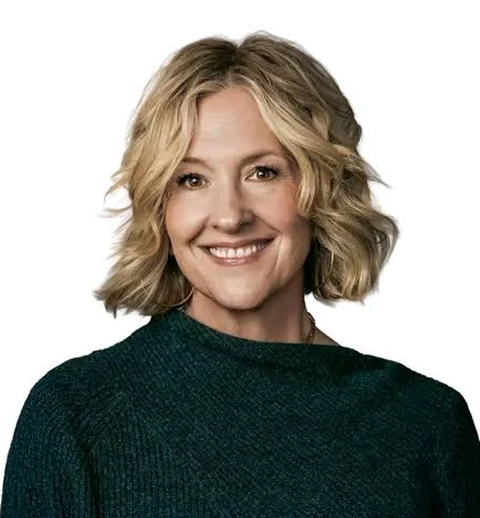
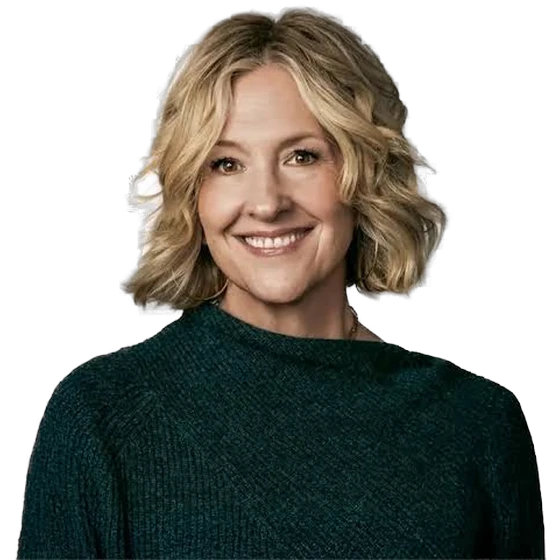
Experts section: cut-out portraits on colour cards with white name panels, no outlines
Claude-Session: https://claude.ai/code/session_0149TwyA4Dt6hXWvFzhGiDPi

diff --git a/landing-page/css/experts.css b/landing-page/css/experts.css
@@ -1,32 +1,33 @@
-/* Experts section: five flat colour cards, staggered, photo on top, dark pill tag, name and role.
-   Photos go in img/experts/<slug>.webp; until then the card shows a monogram. */
-.ex-sec { padding: 120px 0 50px; }
+/* Experts section: bento layout. One tall feature card plus four cards; flat colours, no outlines.
+   Each card: cut-out portrait standing on a white name panel, small dark pill tag top-left. */
+.ex-sec { padding: 120px 0 60px; }
 .ex-sec .hx-head { margin-bottom: 0; }
 .ex-note { max-width: 60ch; margin: 22px auto 0; text-align: center; font: 500 16px/1.55 "DM Sans", sans-serif; color: #4a2d20; }
-.ex-grid { display: grid; grid-template-columns: repeat(5, minmax(0, 1fr)); gap: 16px; align-items: start; margin: 64px 0 0; padding: 0; list-style: none; }
-.ex-card { position: relative; display: flex; flex-direction: column; padding: 12px 12px 24px; border-radius: 34px; background: #f9d98a; color: #3b2218; transition: transform .5s cubic-bezier(.2,.8,.2,1); }
-.ex-card:nth-child(even) { margin-top: 44px; }
-.ex-card:hover { transform: translateY(-8px) rotate(-.6deg); }
-.ex-card.c1 { background: #f9d98a; } .ex-card.c2 { background: #f58fab; } .ex-card.c3 { background: #f8c7a3; } .ex-card.c4 { background: #f4b8c4; } .ex-card.c5 { background: #fff3e2; box-shadow: inset 0 0 0 2px #3b2218; }
-.ex-ph { position: relative; aspect-ratio: 1 / 1.08; border-radius: 24px; overflow: hidden; display: grid; place-items: center; background: rgba(255,255,255,.34); }
-.ex-card.c5 .ex-ph { background: #f9d98a; }
-.ex-mono { font: 600 clamp(54px, 6vw, 92px)/1 Fraunces, Georgia, serif; color: #3b2218; opacity: .5; letter-spacing: -.03em; user-select: none; }
-.ex-ph img { position: absolute; inset: 0; width: 100%; height: 100%; object-fit: cover; object-position: center 22%; }
-.ex-tag { align-self: flex-start; margin: 18px 0 0 10px; padding: 6px 12px; border-radius: 99px; background: #3b2218; color: #fff3e2; font: 800 11px/1 "DM Sans", sans-serif; letter-spacing: .12em; text-transform: uppercase; }
-.ex-card b { display: block; margin: 14px 12px 0; font: 600 clamp(22px, 1.9vw, 27px)/1.08 Fraunces, Georgia, serif; letter-spacing: -.02em; }
-.ex-card p { margin: 8px 12px 0; font: 500 14.5px/1.45 "DM Sans", sans-serif; color: #3b2218; }
+.ex-grid { display: grid; grid-template-columns: 1.1fr 1fr 1fr; grid-template-rows: repeat(2, minmax(330px, 1fr)); gap: 18px; margin: 64px 0 0; padding: 0; list-style: none; }
+.ex-card { position: relative; display: flex; flex-direction: column; padding: 12px; border-radius: 38px; background: #f9d98a; color: #3b2218; overflow: hidden; min-width: 0; }
+.ex-card.c1 { grid-row: 1 / span 2; background: #f9d98a; }
+.ex-card.c2 { background: #f58fab; } .ex-card.c3 { background: #f8c7a3; } .ex-card.c4 { background: #f4b8c4; } .ex-card.c5 { background: #f9d98a; }
+.ex-tag { position: absolute; top: 24px; left: 24px; z-index: 2; padding: 6px 12px; border-radius: 99px; background: #3b2218; color: #fff3e2; font: 800 11px/1 "DM Sans", sans-serif; letter-spacing: .12em; text-transform: uppercase; }
+.ex-ph { position: relative; flex: 1; min-height: 0; }
+.ex-ph img { position: absolute; bottom: 0; left: 50%; transform: translateX(-50%) scale(1); transform-origin: bottom center; height: calc(100% - 40px); width: auto; max-width: 100%; object-fit: contain; object-position: bottom center; transition: transform .6s cubic-bezier(.2,.8,.2,1); }
+.ex-card:hover .ex-ph img { transform: translateX(-50%) scale(1.04); }
+.ex-id { position: relative; z-index: 1; padding: 16px 20px 18px; border-radius: 28px; background: #fff; text-align: center; }
+.ex-id b { display: block; font: 600 clamp(22px, 1.9vw, 28px)/1.1 Fraunces, Georgia, serif; letter-spacing: -.02em; }
+.ex-id p { margin: 6px 0 0; font: 500 14.5px/1.4 "DM Sans", sans-serif; color: #4a2d20; }
+.ex-card.c1 .ex-id { padding: 22px 24px 24px; }
+.ex-card.c1 .ex-id b { font-size: clamp(30px, 2.8vw, 42px); }
+.ex-card.c1 .ex-id p { font-size: 16px; margin-top: 8px; }
+
 @media (max-width: 1100px) {
-  .ex-grid { grid-template-columns: repeat(3, minmax(0, 1fr)); }
-  .ex-card:nth-child(even) { margin-top: 0; } .ex-card:nth-child(2) { margin-top: 36px; }
+  .ex-grid { grid-template-columns: 1fr 1fr; grid-template-rows: none; grid-auto-rows: auto; }
+  .ex-card { height: 370px; }
+  .ex-card.c1 { grid-row: auto; grid-column: 1 / -1; height: 470px; }
 }
 @media (max-width: 700px) {
   .ex-sec { padding: 76px 0 20px; }
-  .ex-grid { grid-template-columns: repeat(2, minmax(0, 1fr)); gap: 12px; margin-top: 40px; }
-  .ex-card:nth-child(n) { margin-top: 0; }
-  .ex-card:nth-child(5) { grid-column: 1 / -1; } .ex-card:nth-child(5) .ex-ph { aspect-ratio: 2.4 / 1; }
-  .ex-card { border-radius: 28px; padding: 9px 9px 20px; }
-  .ex-ph { border-radius: 20px; }
-  .ex-tag { margin: 14px 0 0 6px; font-size: 10px; }
-  .ex-card b { margin: 12px 8px 0; font-size: 20px; } .ex-card p { margin: 6px 8px 0; font-size: 13px; }
+  .ex-grid { grid-template-columns: 1fr; gap: 12px; margin-top: 40px; }
+  .ex-card { height: 390px; } .ex-card.c1 { height: 470px; }
+  .ex-card { border-radius: 32px; padding: 10px; }
+  .ex-tag { top: 20px; left: 20px; font-size: 10px; }
 }
-@media (prefers-reduced-motion: reduce) { .ex-card:hover { transform: none; } }
+@media (prefers-reduced-motion: reduce) { .ex-ph img, .ex-card:hover .ex-ph img { transition: none; transform: translateX(-50%); } }

diff --git a/landing-page/index.html b/landing-page/index.html
@@ -34,7 +34,7 @@
   <link rel="stylesheet" href="css/f-skin.css?v=9" />
   <link rel="stylesheet" href="css/start.css?v=4" />
   <link rel="stylesheet" href="css/marquee.css?v=6" />
-  <link rel="stylesheet" href="css/experts.css?v=2" />
+  <link rel="stylesheet" href="css/experts.css?v=3" />
   <link rel="stylesheet" href="css/light.css?v=9" />
   <script defer src="https://cloud.umami.is/script.js" data-website-id="62eda2bd-4092-439e-9668-755fa2ca5aea"></script>
   <script type="application/ld+json">{"@context":"https://schema.org","@graph":[{"@type":"Organization","name":"RelationshipAI","url":"https://relationshipaiadvice.com/","logo":"https://relationshipaiadvice.com/icon-512.png","sameAs":["https://www.instagram.com/relationshipai_/"]},{"@type":"WebSite","name":"RelationshipAI","url":"https://relationshipaiadvice.com/"}]}</script>
@@ -148,11 +148,11 @@ addEventListener('hashchange',hash);addEventListener('resize',lay);if(document.f
         <div class="hx-head hx-reveal"><span class="hx-kicker">Inspired by</span><h2>The experts behind <em>the ideas.</em></h2></div>
         <p class="ex-note">Decades of research on couples shaped how we think about hard conversations. These are some of the people whose work inspired RelationshipAI. They are not affiliated with us and do not endorse the app.</p>
         <ul class="ex-grid">
-          <li class="ex-card c1"><div class="ex-ph"><span class="ex-mono" aria-hidden="true">JG</span><img src="img/experts/john-gottman.webp" alt="John Gottman" loading="lazy" decoding="async" onerror="this.remove()" /></div><span class="ex-tag">Gottman Method</span><b>John Gottman</b><p>Psychologist and couples researcher</p></li>
-          <li class="ex-card c2"><div class="ex-ph"><span class="ex-mono" aria-hidden="true">EP</span><img src="img/experts/esther-perel.webp" alt="Esther Perel" loading="lazy" decoding="async" onerror="this.remove()" /></div><span class="ex-tag">Couples therapy</span><b>Esther Perel</b><p>Psychotherapist and author</p></li>
-          <li class="ex-card c3"><div class="ex-ph"><span class="ex-mono" aria-hidden="true">SJ</span><img src="img/experts/sue-johnson.webp" alt="Sue Johnson" loading="lazy" decoding="async" onerror="this.remove()" /></div><span class="ex-tag">EFT</span><b>Sue Johnson</b><p>Clinical psychologist, creator of Emotionally Focused Therapy</p></li>
-          <li class="ex-card c4"><div class="ex-ph"><span class="ex-mono" aria-hidden="true">BB</span><img src="img/experts/brene-brown.webp" alt="Brené Brown" loading="lazy" decoding="async" onerror="this.remove()" /></div><span class="ex-tag">Vulnerability</span><b>Brené Brown</b><p>Research professor and author</p></li>
-          <li class="ex-card c5"><div class="ex-ph"><span class="ex-mono" aria-hidden="true">GC</span><img src="img/experts/gary-chapman.webp" alt="Gary Chapman" loading="lazy" decoding="async" onerror="this.remove()" /></div><span class="ex-tag">Love languages</span><b>Gary Chapman</b><p>Counselor, author of The 5 Love Languages</p></li>
+          <li class="ex-card c1"><span class="ex-tag">Gottman Method</span><div class="ex-ph"><img src="img/experts/john-gottman.webp" alt="John Gottman" loading="lazy" decoding="async" /></div><div class="ex-id"><b>John Gottman</b><p>Psychologist and couples researcher</p></div></li>
+          <li class="ex-card c2"><span class="ex-tag">Couples therapy</span><div class="ex-ph"><img src="img/experts/esther-perel.webp" alt="Esther Perel" loading="lazy" decoding="async" /></div><div class="ex-id"><b>Esther Perel</b><p>Psychotherapist and author</p></div></li>
+          <li class="ex-card c3"><span class="ex-tag">EFT</span><div class="ex-ph"><img src="img/experts/sue-johnson.webp" alt="Sue Johnson" loading="lazy" decoding="async" /></div><div class="ex-id"><b>Sue Johnson</b><p>Clinical psychologist, creator of Emotionally Focused Therapy</p></div></li>
+          <li class="ex-card c4"><span class="ex-tag">Vulnerability</span><div class="ex-ph"><img src="img/experts/brene-brown.webp" alt="Brené Brown" loading="lazy" decoding="async" /></div><div class="ex-id"><b>Brené Brown</b><p>Research professor and author</p></div></li>
+          <li class="ex-card c5"><span class="ex-tag">Love languages</span><div class="ex-ph"><img src="img/experts/gary-chapman.webp" alt="Gary Chapman" loading="lazy" decoding="async" /></div><div class="ex-id"><b>Gary Chapman</b><p>Counselor, author of The 5 Love Languages</p></div></li>
         </ul>
       </div>
     </section>
